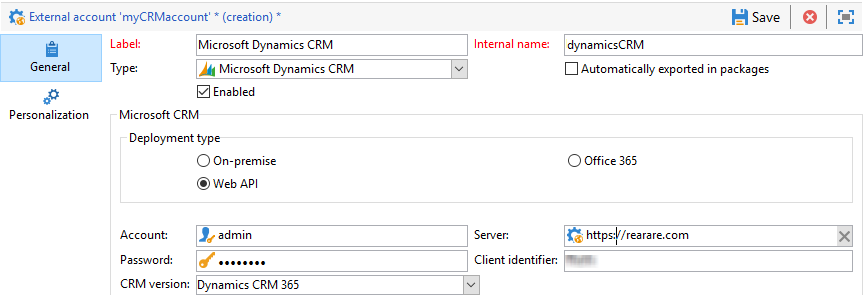
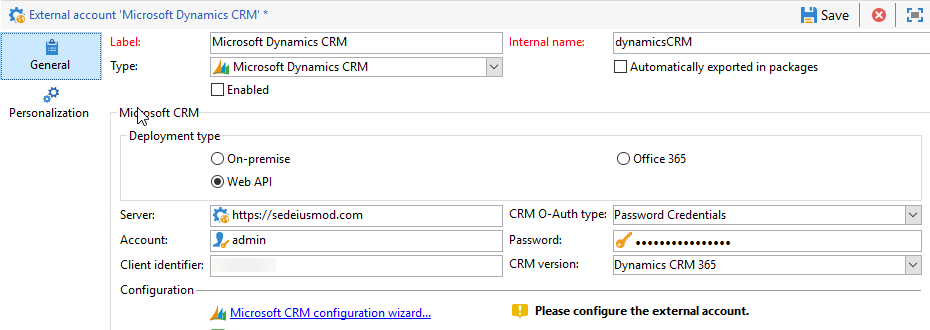
CRM connector OAUTH

Changed region(s): [[0.0, 0.0, 1.0, 1.0]]

diff --git a/help/platform/using/external-accounts.md b/help/platform/using/external-accounts.md
@@ -419,6 +419,8 @@ The **[!UICONTROL Microsoft Dynamics CRM]** external account allows you to impor
 Configuration for Microsoft Dynamics connector to work with Adobe Campaign depends on your deployment type.
 With **[!UICONTROL On-premise]** and **[!UICONTROL Office 365]** deployment types, you need to provide the following details:
 
+![](assets/ext_account_21.png)
+
 * **[!UICONTROL Account]**
 
   Account used to sign in to Microsoft CRM.
@@ -433,19 +435,20 @@ With **[!UICONTROL On-premise]** and **[!UICONTROL Office 365]** deployment type
 
 * **[!UICONTROL Company name]** for On-premise and Office 365 deployment
 
-  Company name which can be found in the Developers resource dashboard, **[!UICONTROL Unique Name]** field.
+   Name of your Company.
 
 * **[!UICONTROL Organization name]** for On-premise deployment
 
   Name of your organization.
+  Organization name which can be found in the Developers resources dashboard in Microsoft Dynamics, **[!UICONTROL Unique Name]** field.
 
 * **[!UICONTROL CRM version]** for On-premise
 
   Version of the CRM between **[!UICONTROL Dynamics CRM 2007]**, **[!UICONTROL Dynamics CRM 2015]** or **[!UICONTROL Dynamics CRM 2016]**.
 
-![](assets/ext_account_14.png)
-
 With **[!UICONTROL Web API]** deployment type and **[!UICONTROL Password credentials]** authentication, you need to provide the following details:
+
+![](assets/ext_account_14.png)
 
 * **[!UICONTROL Account]**
 
@@ -465,18 +468,20 @@ With **[!UICONTROL Web API]** deployment type and **[!UICONTROL Password credent
 
 With **[!UICONTROL Web API]** deployment type and **[!UICONTROL Certificate]** authentication, you need to provide the following details:
 
+![](assets/ext_account_22.png)
+
 * **[!UICONTROL Server]**
 
   URL of your Microsoft CRM server.
 
 * **[!UICONTROL Private Key (Base64 encoded)]**
 
+  Private key encoded to Base64
 
 * **[!UICONTROL Custom Key identifier]**
 
 
 * **[!UICONTROL Key ID]**
-
 
 * **[!UICONTROL Client identifier]**
 
